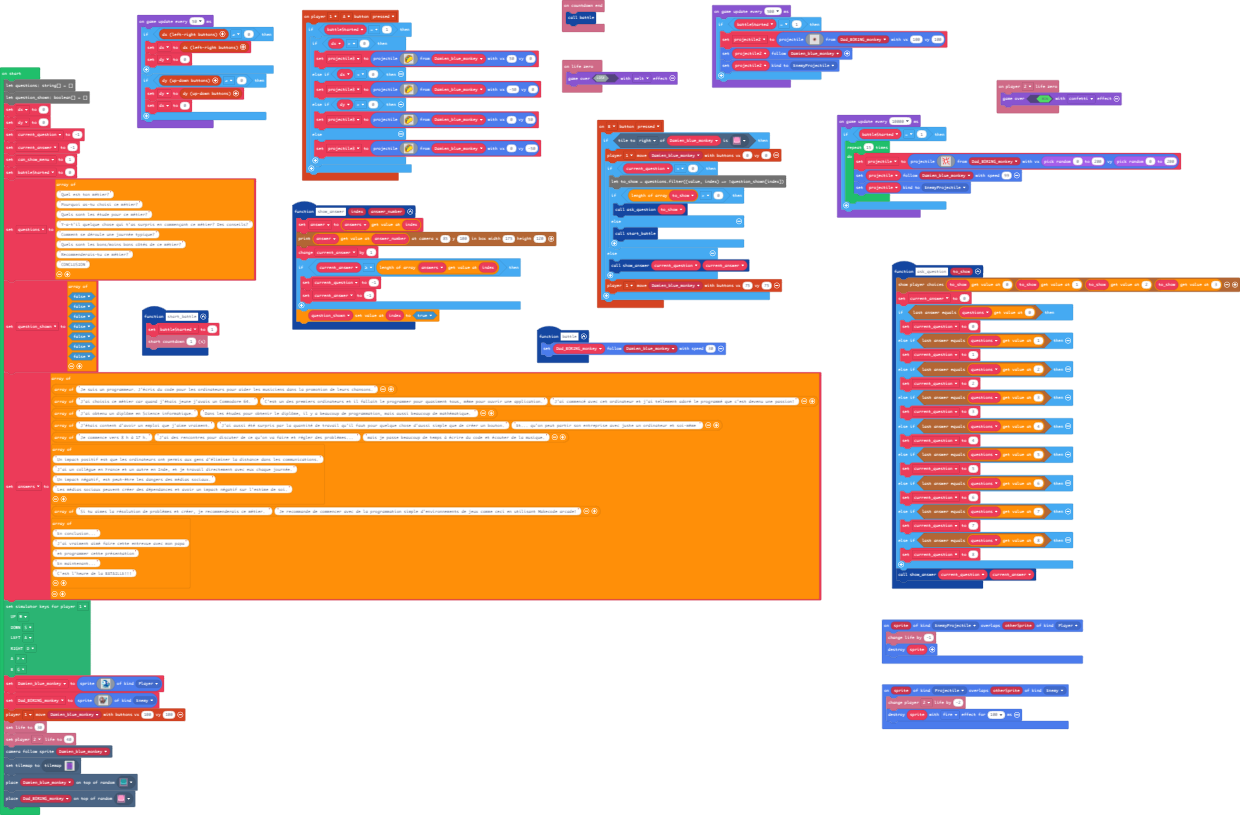
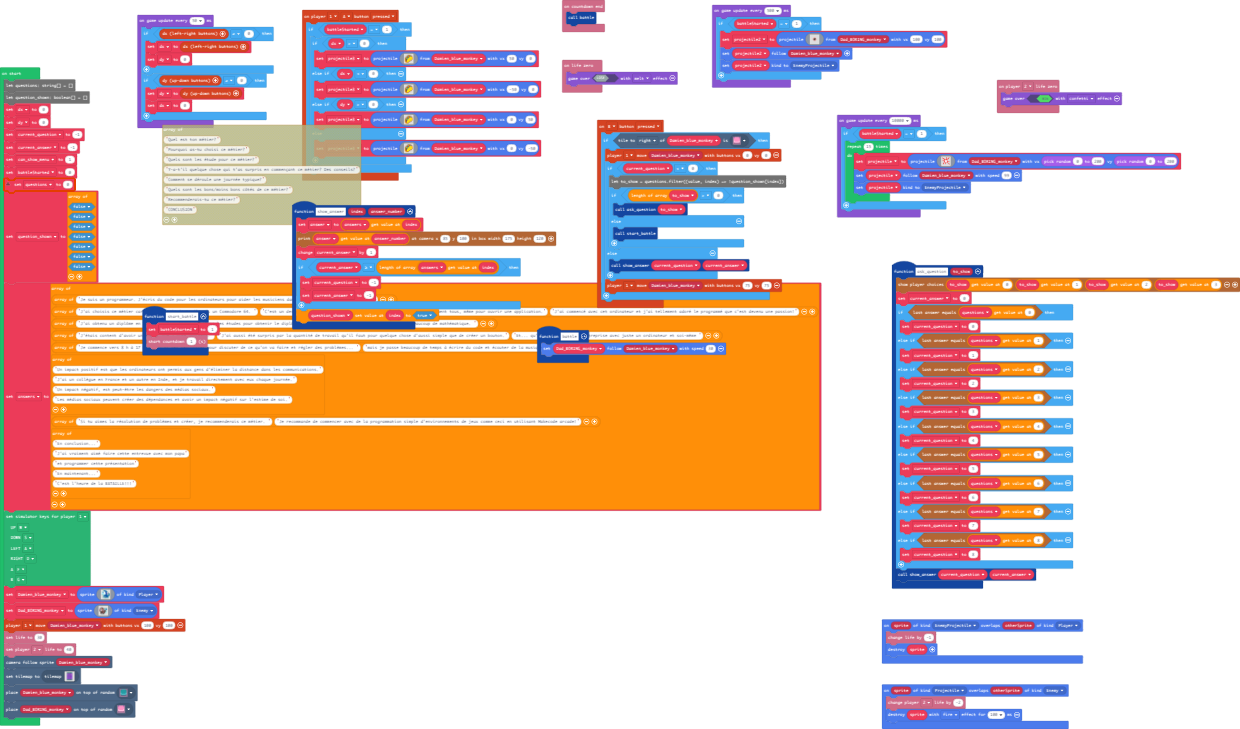
Update pxt.json, main.blocks, main.ts

diff --git a/main.ts b/main.ts
@@ -176,16 +176,7 @@ current_question = -1
 current_answer = -1
 let can_show_menu = 1
 battleStarted = 0
-questions = [
-"Quel est ton métier?",
-"Pourquoi as-tu choisi ce métier?",
-"Quels sont les étude pour ce métier?",
-"Y-a-t'il quelque chose qui t'as surpris en commençant ce métier? Des conseils?",
-"Comment se déroule une journée typique?",
-"Quels sont les bons/moins bons côtés de ce métier?",
-"Recommenderais-tu ce métier?",
-"CONCLUSION"
-]
+questions = 0
 question_shown = [
 false,
 false,
